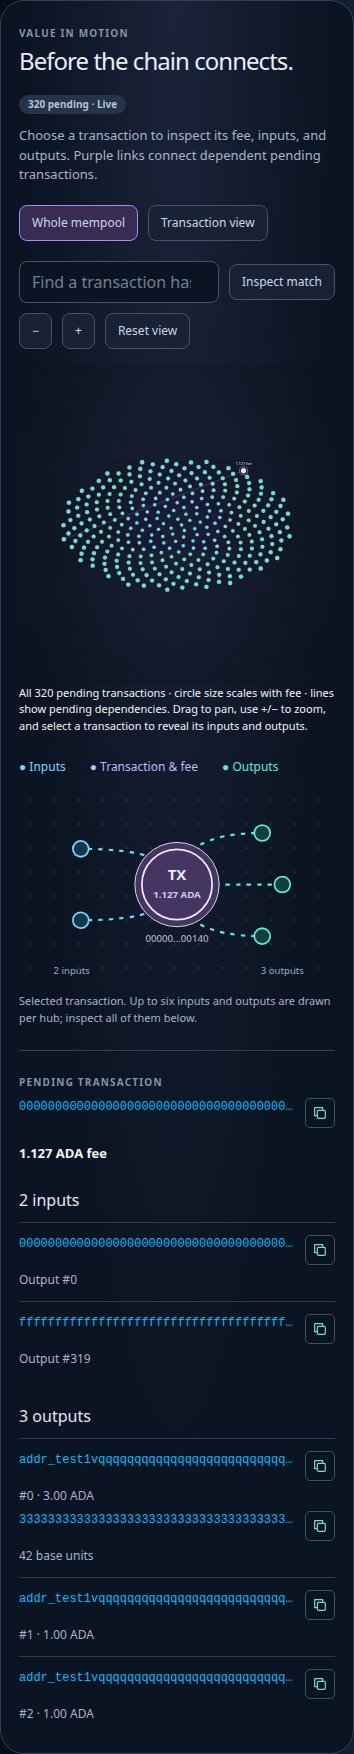
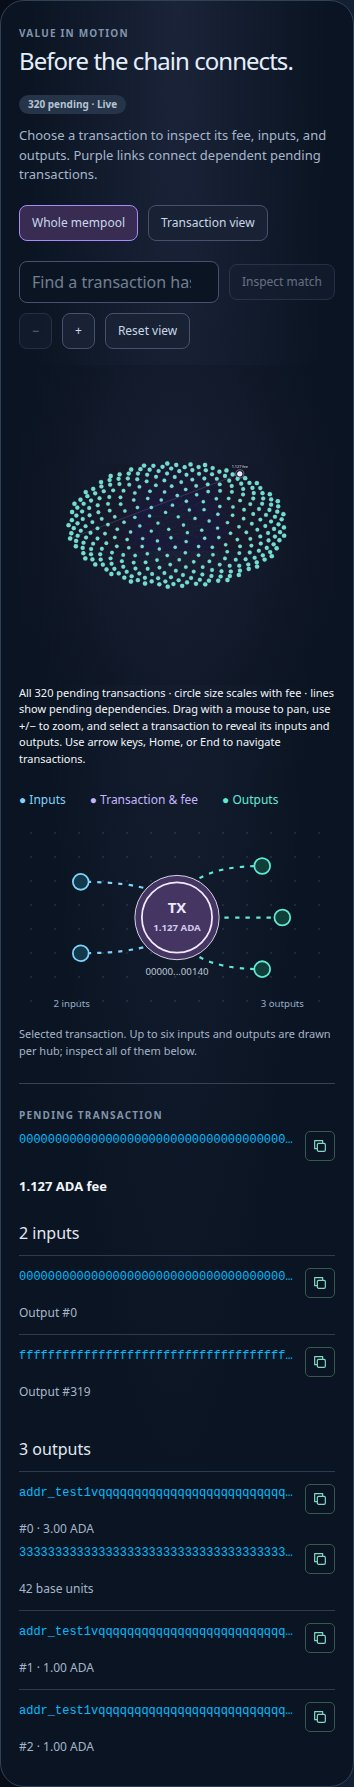
fix: preserve mempool layout and navigation state

diff --git a/src/components/explorer/MempoolOverview.tsx b/src/components/explorer/MempoolOverview.tsx
@@ -1,8 +1,13 @@
-import { memo, useMemo, useRef, useState } from "react";
+import { memo, useCallback, useMemo, useRef, useState } from "react";
 import type { PendingTx } from "../../lib/dingo/utxorpc/streaming";
 import { mempoolOverview, reconcileMempoolSlots } from "../../lib/explorer/mempoolGraph";
 import { formatAda } from "../../lib/format";
 const feeAmount = (fee: bigint) => formatAda(fee).replace(/ ADA$/, "");
+
+function boundedCenter(point: { x: number; y: number }, zoom: number) {
+  const halfWidth = 500 / zoom, halfHeight = 300 / zoom;
+  return { x: Math.max(halfWidth, Math.min(1000 - halfWidth, point.x)), y: Math.max(halfHeight, Math.min(600 - halfHeight, point.y)) };
+}
 
 export const MempoolOverview = memo(function MempoolOverview({ transactions, active, onSelect }: {
   transactions: PendingTx[];
@@ -10,7 +15,7 @@ export const MempoolOverview = memo(function MempoolOverview({ transactions, act
   onSelect: (hash: string) => void;
 }) {
   const [slots, setSlots] = useState(() => reconcileMempoolSlots(transactions, new Map()));
-  const current = reconcileMempoolSlots(transactions, slots);
+  const current = useMemo(() => reconcileMempoolSlots(transactions, slots), [transactions, slots]);
   if (current !== slots) setSlots(current);
   const graph = useMemo(() => mempoolOverview(transactions, current), [transactions, current]);
   const [search, setSearch] = useState("");
@@ -21,14 +26,28 @@ export const MempoolOverview = memo(function MempoolOverview({ transactions, act
   const term = search.trim().toLowerCase();
   const matches = useMemo(() => transactions.filter((tx) => tx.hash.includes(term)), [transactions, term]);
   const selected = graph.nodes.find((node) => node.tx.hash === active);
+  const inspect = useCallback((hash: string) => {
+    onSelect(hash);
+    const node = graph.nodes.find((item) => item.tx.hash === hash);
+    if (node && zoom > 1) setCenter(boundedCenter(node, zoom));
+  }, [graph, onSelect, zoom]);
   const scene = useMemo(() => <>
     {graph.dependencies.map((edge, index) => <line key={index} className="mempool-overview-edge" x1={edge.from.x} y1={edge.from.y} x2={edge.to.x} y2={edge.to.y} style={{ opacity: active ? edge.from.tx.hash === active || edge.to.tx.hash === active ? 0.9 : 0.06 : 0.24 }} />)}
-    {graph.nodes.map((node) => <g
-      key={node.tx.hash} className="mempool-overview-node" role="button" tabIndex={0}
+    {graph.nodes.map((node, index) => <g
+      key={node.tx.hash} className="mempool-overview-node" role="button" tabIndex={active ? active === node.tx.hash ? 0 : -1 : index === 0 ? 0 : -1}
       aria-label={`Inspect transaction ${node.tx.hash}, fee ${feeAmount(node.tx.fee)} native coins`} aria-pressed={active === node.tx.hash}
       data-hash={node.tx.hash} data-x={node.x} data-y={node.y}
-      onClick={() => { if (!dragged.current) onSelect(node.tx.hash); }}
-      onKeyDown={(event) => { if (event.key === "Enter" || event.key === " ") { event.preventDefault(); onSelect(node.tx.hash); } }}
+      onClick={() => { if (!dragged.current) inspect(node.tx.hash); }}
+      onKeyDown={(event) => {
+        if (event.key === "Enter" || event.key === " ") { event.preventDefault(); inspect(node.tx.hash); return; }
+        const offset = ["ArrowRight", "ArrowDown"].includes(event.key) ? 1 : ["ArrowLeft", "ArrowUp"].includes(event.key) ? -1 : 0;
+        if (!offset && event.key !== "Home" && event.key !== "End") return;
+        event.preventDefault();
+        const nextIndex = event.key === "Home" ? 0 : event.key === "End" ? graph.nodes.length - 1 : (index + offset + graph.nodes.length) % graph.nodes.length;
+        const next = graph.nodes[nextIndex];
+        inspect(next.tx.hash);
+        event.currentTarget.parentElement?.querySelectorAll<SVGGElement>(".mempool-overview-node")[nextIndex]?.focus();
+      }}
       style={{ opacity: term && !node.tx.hash.includes(term) ? 0.15 : 1 }}
     >
       <title>{node.tx.hash} · Fee {feeAmount(node.tx.fee)} · {node.tx.inputCount} inputs · {node.tx.outputCount} outputs. Select to inspect output amounts.</title>
@@ -38,14 +57,15 @@ export const MempoolOverview = memo(function MempoolOverview({ transactions, act
       <circle cx={selected.x} cy={selected.y} r={selected.radius + 6} />
       <text x={selected.x} y={selected.y - 17} textAnchor="middle">{feeAmount(selected.tx.fee)} fee</text>
     </g>}
-  </>, [graph, active, term, selected, onSelect]);
+  </>, [graph, active, term, selected, inspect]);
   function changeZoom(next: number) {
-    setZoom(Math.max(1, Math.min(4, next)));
-    if (selected) setCenter({ x: selected.x, y: selected.y });
+    const nextZoom = Math.max(1, Math.min(4, next));
+    setZoom(nextZoom);
+    setCenter((point) => boundedCenter(selected ?? point, nextZoom));
   }
   return <div className="mempool-overview">
     <div className="mempool-overview-tools">
-      <form onSubmit={(event) => { event.preventDefault(); if (term && matches[0]) onSelect(matches[0].hash); }}>
+      <form onSubmit={(event) => { event.preventDefault(); if (term && matches[0]) inspect(matches[0].hash); }}>
         <input type="search" aria-label="Find pending transaction" placeholder="Find a transaction hash…" value={search} onChange={(event) => setSearch(event.target.value)} />
         <button type="submit" disabled={!term || !matches.length}>Inspect match</button>
       </form>
@@ -59,6 +79,7 @@ export const MempoolOverview = memo(function MempoolOverview({ transactions, act
     <svg className="mempool-overview-canvas" viewBox="0 0 1000 600" role="group" aria-label="All pending transactions" onPointerDown={(event) => {
       if (event.button !== 0) return;
       dragged.current = false;
+      if (event.pointerType === "touch") return;
       if ((event.target as Element).closest(".mempool-overview-node")) return;
       drag.current = { x: event.clientX, y: event.clientY, originX: event.clientX, originY: event.clientY, moved: false };
       event.currentTarget.setPointerCapture(event.pointerId);
@@ -70,11 +91,11 @@ export const MempoolOverview = memo(function MempoolOverview({ transactions, act
       if (scale <= 0) return;
       if (Math.abs(event.clientX - drag.current.originX) + Math.abs(event.clientY - drag.current.originY) > 3) drag.current.moved = true;
       dragged.current = drag.current.moved;
-      if (drag.current.moved) setCenter((point) => ({ x: Math.max(0, Math.min(1000, point.x - dx / scale / zoom)), y: Math.max(0, Math.min(600, point.y - dy / scale / zoom)) }));
+      if (drag.current.moved) setCenter((point) => boundedCenter({ x: point.x - dx / scale / zoom, y: point.y - dy / scale / zoom }, zoom));
       drag.current.x = event.clientX; drag.current.y = event.clientY;
     }} onPointerUp={() => { drag.current = null; }} onPointerCancel={() => { drag.current = null; }}>
       <g transform={`translate(500 300) scale(${zoom}) translate(${-center.x} ${-center.y})`}>{scene}</g>
     </svg>
-    <p className="mempool-web-scope">All {transactions.length.toLocaleString()} pending transactions · circle size scales with fee · lines show pending dependencies. Drag to pan, use +/− to zoom, and select a transaction to reveal its inputs and outputs.</p>
+    <p className="mempool-web-scope">All {transactions.length.toLocaleString()} pending transactions · circle size scales with fee · lines show pending dependencies. Drag with a mouse to pan, use +/− to zoom, and select a transaction to reveal its inputs and outputs. Use arrow keys, Home, or End to navigate transactions.</p>
   </div>;
 });

diff --git a/src/components/explorer/MempoolGraph.test.tsx b/src/components/explorer/MempoolGraph.test.tsx
@@ -43,11 +43,22 @@ it("shows all 320 pending transactions, retains positions on arrivals, and inspe
   try {
     await act(async () => render(transactions));
     expect(container.querySelectorAll(".mempool-overview-node")).toHaveLength(320);
+    expect(container.querySelectorAll('.mempool-overview-node[tabindex="0"]')).toHaveLength(1);
+    const first = container.querySelector('.mempool-overview-node')!;
+    await act(async () => first.dispatchEvent(new KeyboardEvent("keydown", { key: "End", bubbles: true })));
+    expect(container.querySelector('.mempool-overview-node[tabindex="0"]')?.getAttribute("data-hash")).toBe(transactions[319].hash);
     const node = container.querySelectorAll(".mempool-overview-node")[319];
     const position = [node.getAttribute("data-x"), node.getAttribute("data-y")];
     await act(async () => node.dispatchEvent(new KeyboardEvent("keydown", { key: "Enter", bubbles: true })));
     expect(container.querySelector('[aria-label="Selected pending transaction"]')?.textContent).toContain(transactions[319].hash);
+    const zoom = container.querySelector<HTMLButtonElement>('[aria-label="Zoom in"]')!;
+    await act(async () => zoom.click());
+    const transform = container.querySelector('.mempool-overview-canvas > g')?.getAttribute("transform");
+    const button = (name: string) => Array.from(container.querySelectorAll("button")).find((item) => item.textContent === name)!;
+    await act(async () => button("Transaction view").click());
     await act(async () => render([{ ...transactions[0], hash: "ff".repeat(32) }, ...transactions]));
+    await act(async () => button("Whole mempool").click());
+    expect(container.querySelector('.mempool-overview-canvas > g')?.getAttribute("transform")).toBe(transform);
     const retained = container.querySelector(`[data-hash="${transactions[319].hash}"]`)!;
     expect([retained.getAttribute("data-x"), retained.getAttribute("data-y")]).toEqual(position);
     expect(container.querySelectorAll(".mempool-overview-node")).toHaveLength(321);

diff --git a/src/lib/explorer/mempoolGraph.test.ts b/src/lib/explorer/mempoolGraph.test.ts
@@ -1,5 +1,5 @@
 import { expect, it } from "vitest";
-import { mempoolGraph } from "./mempoolGraph";
+import { mempoolGraph, mempoolOverview, reconcileMempoolSlots } from "./mempoolGraph";
 import type { PendingTx } from "../dingo/utxorpc/streaming";
 
 const tx = (hash: string, parent: string): PendingTx => ({ hash, inputs: [{ hash: parent, index: 0 }], outputs: [{ address: "address", lovelace: 1000000n, assets: [] }], inputCount: 1, outputCount: 1, totalOutputLovelace: 1000000n, fee: 200000n, seenAt: 1 });
@@ -34,4 +34,19 @@ it("connects dependencies through hubs when their actual input and output ports 
   child.inputCount = 8;
   const graph = mempoolGraph([parent, child], false);
   expect(graph.dependencies).toEqual([{ from: { x: graph.nodes[0].x, y: graph.nodes[0].y }, to: { x: graph.nodes[1].x, y: graph.nodes[1].y }, parent: "parent", child: "child" }]);
+});
+
+it("retains overview coordinates when arrivals cross a layout threshold and later depart", () => {
+  const rows = Array.from({ length: 512 }, (_, i) => tx(String(i), "confirmed"));
+  const slots = reconcileMempoolSlots(rows, new Map());
+  const position = (node: { x: number; y: number }) => [node.x, node.y];
+  const before = mempoolOverview(rows, slots).nodes.map(position);
+  const arrived = [tx("arrival", "300"), ...rows];
+  const nextSlots = reconcileMempoolSlots(arrived, slots);
+  const after = mempoolOverview(arrived, nextSlots);
+  expect(after.nodes.filter((node) => node.tx.hash !== "arrival").map(position)).toEqual(before);
+  expect(after.dependencies).toHaveLength(1);
+  const remaining = rows.slice(0, 320);
+  const departed = mempoolOverview(remaining, reconcileMempoolSlots(remaining, nextSlots));
+  expect(departed.nodes.map(position)).toEqual(before.slice(0, 320));
 });

diff --git a/src/components/explorer/mempool-graph.css b/src/components/explorer/mempool-graph.css
@@ -56,7 +56,7 @@
 .mempool-overview-tools { justify-content: space-between; margin-bottom: 16px; }
 .mempool-overview-tools input { min-width: 0; flex: 1; border: 1px solid #46516d; padding: 8px 12px; border-radius: 8px; background: #0b1422; color: #dbeafe; }
 .mempool-overview-tools form { flex: 1 1 270px; }
-.mempool-overview-canvas { width: 100%; display: block; min-height: 320px; max-height: 650px; background: radial-gradient(ellipse, #20223a55, #0a132088); border-radius: 18px; touch-action: none; cursor: grab; }
+.mempool-overview-canvas { width: 100%; display: block; min-height: 320px; max-height: 650px; background: radial-gradient(ellipse, #20223a55, #0a132088); border-radius: 18px; touch-action: pan-y pinch-zoom; cursor: grab; }
 .mempool-overview-canvas:active { cursor: grabbing; }
 .mempool-overview-edge { stroke: #b49af7; stroke-width: 0.8; }
 .mempool-overview-node { cursor: pointer; outline: none; }
@@ -64,3 +64,5 @@
 .mempool-overview-node:hover circle, .mempool-overview-node:focus-visible circle, .mempool-overview-node[aria-pressed="true"] circle { fill: #e7ddff; stroke: #fff; stroke-width: 3; }
 .mempool-overview-selected circle { fill: none; stroke: #c4b5fd; stroke-width: 1.5; }
 .mempool-overview-selected text { fill: #f0eaff; font-size: 12px; paint-order: stroke; stroke: #0b1422; stroke-width: 3px; }
+
+.mempool-overview-tools button:disabled { opacity: .45; cursor: not-allowed; }

diff --git a/src/lib/explorer/mempoolGraph.ts b/src/lib/explorer/mempoolGraph.ts
@@ -18,13 +18,12 @@ export function reconcileMempoolSlots(transactions: PendingTx[], previous: Map<s
 }
 
 export function mempoolOverview(transactions: PendingTx[], slots: Map<string, number>) {
-  const capacity = Math.max(64, 2 ** Math.ceil(Math.log2(Math.max(1, ...slots.values()) + 1)));
   const maximumFee = transactions.reduce((max, tx) => tx.fee > max ? tx.fee : max, 0n);
   const nodes = transactions.map((tx) => {
     const slot = slots.get(tx.hash);
     if (slot === undefined) throw new Error("Missing mempool layout slot.");
     const angle = slot * Math.PI * (3 - Math.sqrt(5));
-    const radius = Math.sqrt((slot + 0.5) / capacity);
+    const radius = Math.sqrt((slot + 0.5) / (slot + 256));
     const weight = maximumFee > 0n ? Number(tx.fee * 1000n / maximumFee) / 1000 : 0;
     return { tx, x: 500 + Math.cos(angle) * radius * 465, y: 300 + Math.sin(angle) * radius * 265, radius: 4 + Math.sqrt(weight) * 3 };
   });

diff --git a/src/components/explorer/MempoolGraph.tsx b/src/components/explorer/MempoolGraph.tsx
@@ -38,7 +38,7 @@ export function MempoolGraph({ transactions, status }: { transactions: PendingTx
         <button type="button" aria-pressed={overview} onClick={() => setMode("overview")}>Whole mempool</button>
         <button type="button" aria-pressed={!overview} onClick={() => setMode("transactions")}>Transaction view</button>
       </nav>}
-      {overview && <MempoolOverview transactions={transactions} active={active} onSelect={setActive} />}
+      {transactions.length > MEMPOOL_GRAPH_PAGE_SIZE && <div hidden={!overview}><MempoolOverview transactions={transactions} active={active} onSelect={setActive} /></div>}
       <div className="mempool-web-legend"><span>● Inputs</span><span>● Transaction & fee</span><span>● Outputs</span></div>
       {shown.length > 0 ? <>
         <div className="mempool-web-canvas">

diff --git a/README.md b/README.md
@@ -531,7 +531,7 @@ Unsupported native records do not discard other decoded observations. Chain
 rollback and reconnect invalidate the sampled block list, clearing orphaned
 selections. The developer section includes REST and UTxO RPC examples.
 
-### Whole mempool overview
+## Whole mempool overview
 
 When more than 12 transactions are pending, the transaction web opens an overview
 of the entire pending set. Circle size scales with fee; connections identify
